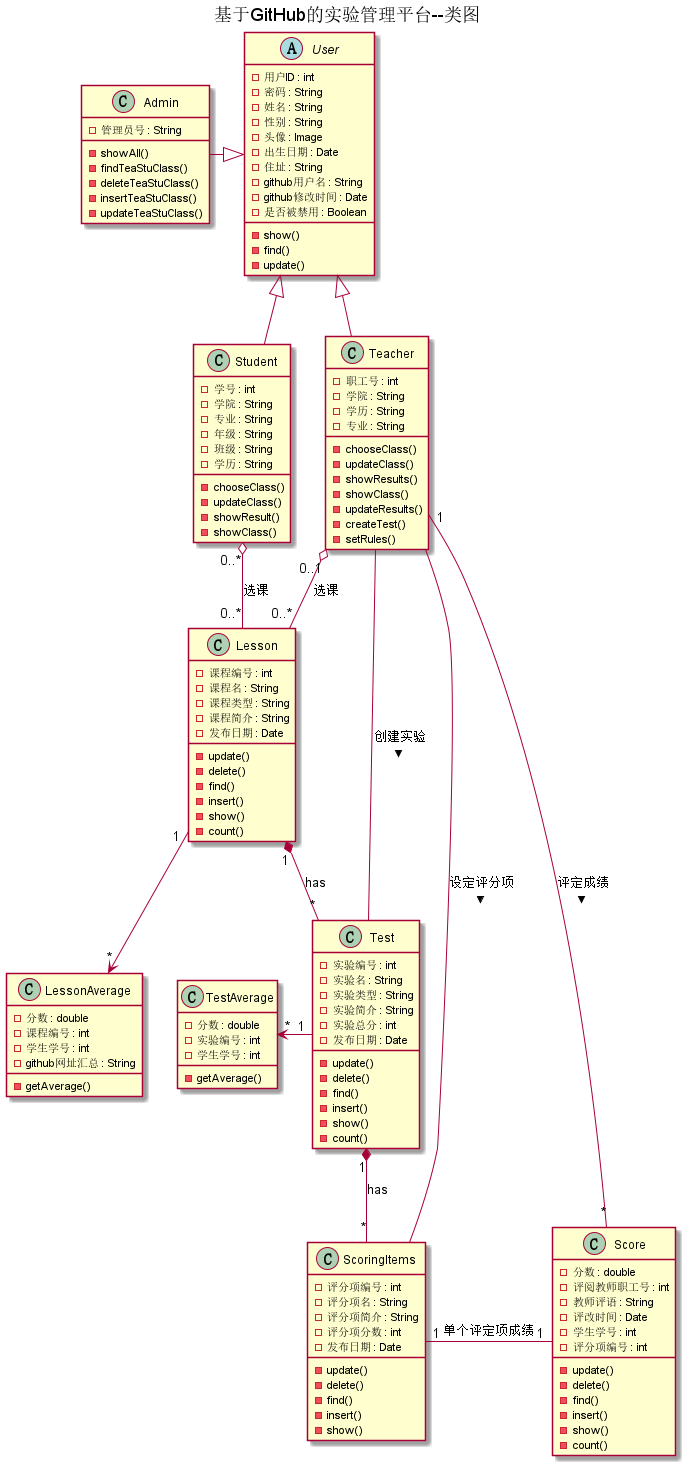
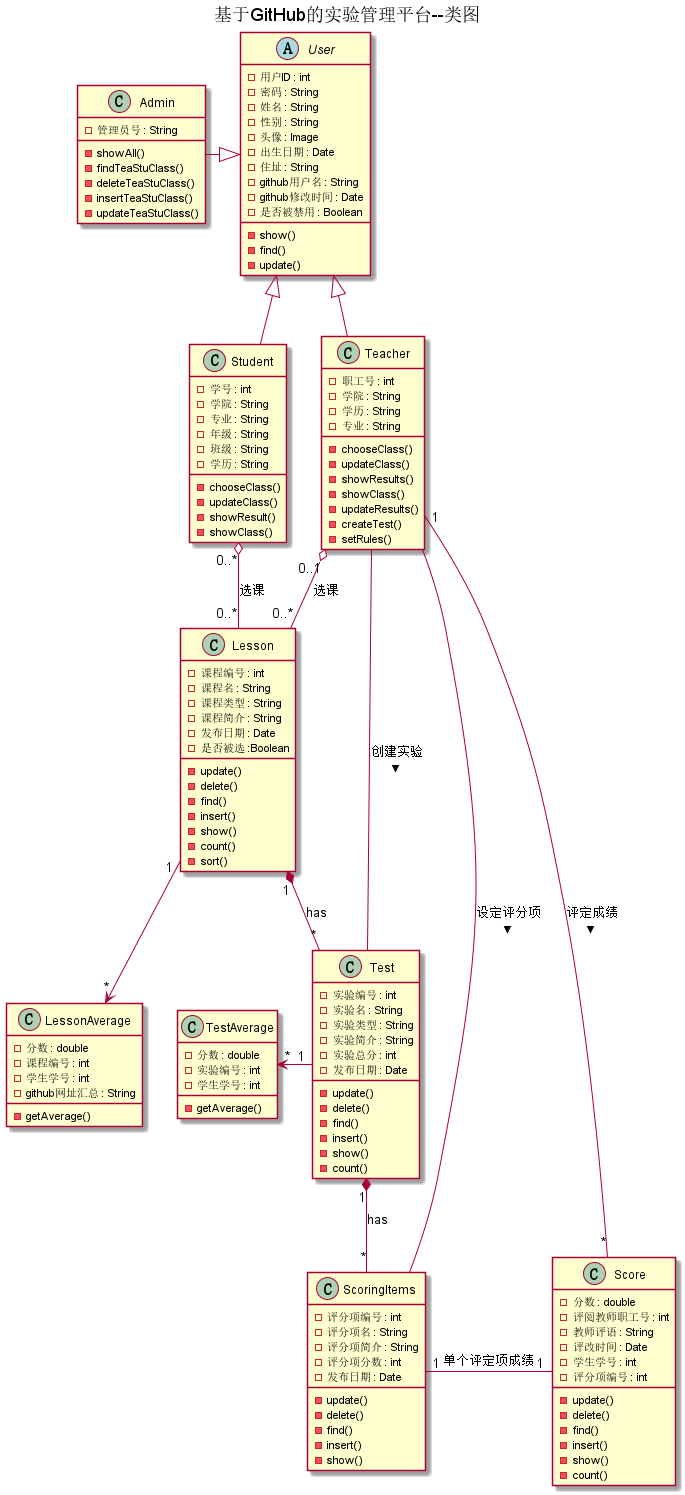
chooselesson

diff --git a/test6/用例/选课.md b/test6/用例/选课.md
@@ -1,0 +1,70 @@
+# 学生列表用例 [返回][1]
+## 1.用例规约
+<table>
+    <thead>
+        <tr>
+            <th>用例名称</th>
+            <th>选课</th>
+        </tr>
+    </thead>
+    <tbody>
+         <tr>
+            <td>功能</td>
+            <td>教师学生选择课程</td>
+         </tr>
+         <tr>
+            <td>参与者</td>
+            <td>教师，学生</td>
+         </tr>
+         <tr>
+            <td>前置条件</td>
+            <td>老师或者管理员登录后访问课程页面</td>
+         </tr>
+         <tr>
+            <td>后置条件</td>
+            <td>数据库更新</td>
+         </tr>
+         <tr>
+            <td>主事件流</td>
+            <td>1.教师或学生登录帐号;<br>
+                2.访问课程页面，点击未选课程;<br>
+                3.选课;<br>
+                4.返回选课成功信息与课程具体信息;
+                5.学生或教师通过查看自己信息访问已选课程;
+                6.对已选课程进行修改<br>
+            </td>
+         </tr>
+         <tr>
+            <td>备选事件流</td>
+            <td>1.学生选课时，由于该课程事先没有教师选择教授，则暂时无法选择<br>
+                2.返回选课失败信息;
+                3.教师修改选课时，已有学生选中此课程，教师权限不够无法修改，需要联系管理员<br>
+            </td>
+         </tr>
+    </tbody>
+</table>
+
+## 2.业务流程（顺序图）[源码][2]
+<img src="https://github.com/mzy1997/is_analysis/blob/master/test6/sequence选课.png"/>
+
+## 3.界面设计
+- ### 界面参照:
+- ### API接口调用:
+    - #### 接口1:
+
+## 4.算法描述
+无
+
+## 5.参照表
+- [LESSON][3]
+- [CHOOSELESSON][4]
+- [STUDENT][5]
+- [TEACHER][6]
+
+
+[1]: https://github.com/mzy1997/is_analysis/blob/master/test6/README.md    "返回" 
+[2]: https://github.com/mzy1997/is_analysis/blob/master/test6/src/chooseLesson.puml    "源码" 
+[3]: https://github.com/mzy1997/is_analysis/blob/master/test6/数据库设计.md/#LESSON表课程表    "LESSON" 
+[4]: https://github.com/mzy1997/is_analysis/blob/master/test6/数据库设计.md/#CHOOSELESSON表选课表   "CHOOSELESSON"
+[5]: https://github.com/mzy1997/is_analysis/blob/master/test6/数据库设计.md/#STUDENT表学生表    "STUDENT" 
+[6]: https://github.com/mzy1997/is_analysis/blob/master/test6/数据库设计.md/#TEACHER表教师表    "TEACHER" 

diff --git a/test6/数据库设计.md b/test6/数据库设计.md
@@ -348,6 +348,14 @@
                     <td></td>
                     <td>课程发布时间，为空表示尚未发布</td>
                 </tr>
+                <tr>
+                    <td>lesson_chooseOrNot</td>
+                    <td>Boolean</td>
+                    <td></td>
+                    <td>否</td>
+                    <td>False</td>
+                    <td></td>
+                    <td>课程是否被选择，true表示被选，false表示未被选</td></tr>
             </tbody>
         </table>
         
@@ -472,7 +480,7 @@
                     <td>是</td>
                     <td>空</td>
                     <td></td>
-                    <td>为空表示尚未有教师选此课</td>
+                    <td></td>
                 </tr>
                 <tr>
                     <td>student_id</td>

diff --git a/test6/README.md b/test6/README.md
@@ -26,9 +26,11 @@
 [参见数据库详细设计][3]
 
 ## 6.用例及界面详细设计
-[学生列表用例][4]
+- [学生列表用例][4]
+- [选择课程][5]
 
 [1]: https://github.com/mzy1997/is_analysis/blob/master/test6/src/UserCase.puml     "源码" 
 [2]: https://github.com/mzy1997/is_analysis/blob/master/test6/src/systemClass.puml     "源码" 
 [3]: https://github.com/mzy1997/is_analysis/blob/master/test6/数据库设计.md     "参见数据库详细设计"
 [4]: https://github.com/mzy1997/is_analysis/blob/master/test6/用例/学生列表.md     "学生列表用例"
+[5]: https://github.com/mzy1997/is_analysis/blob/master/test6/用例/选择课程.md     "选择课程用例"
